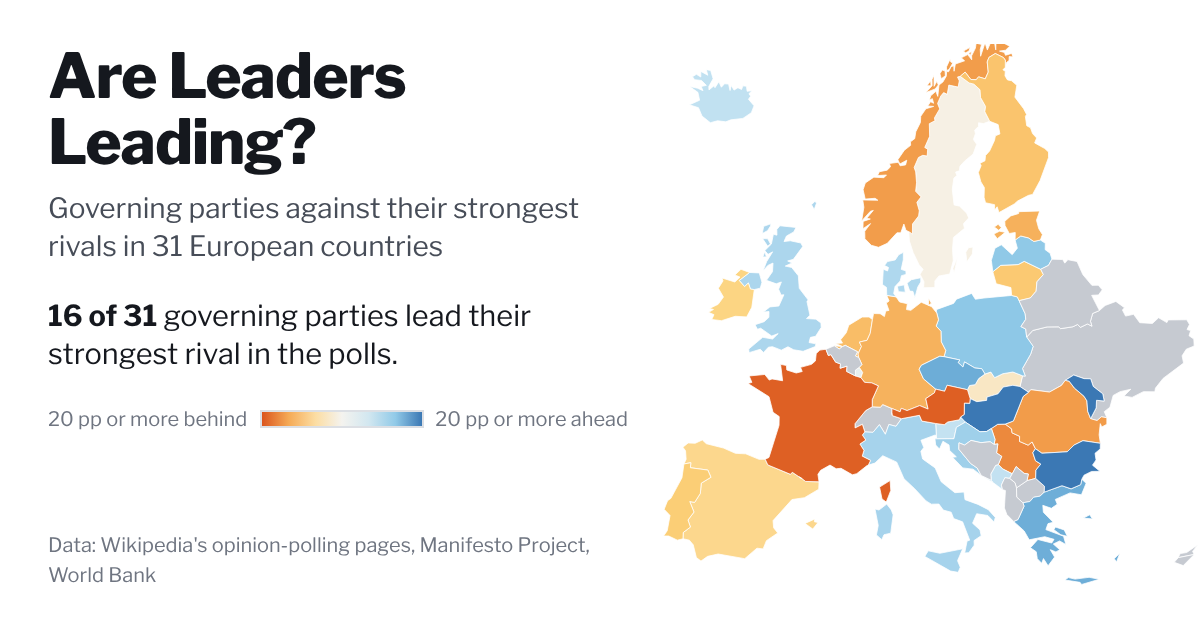
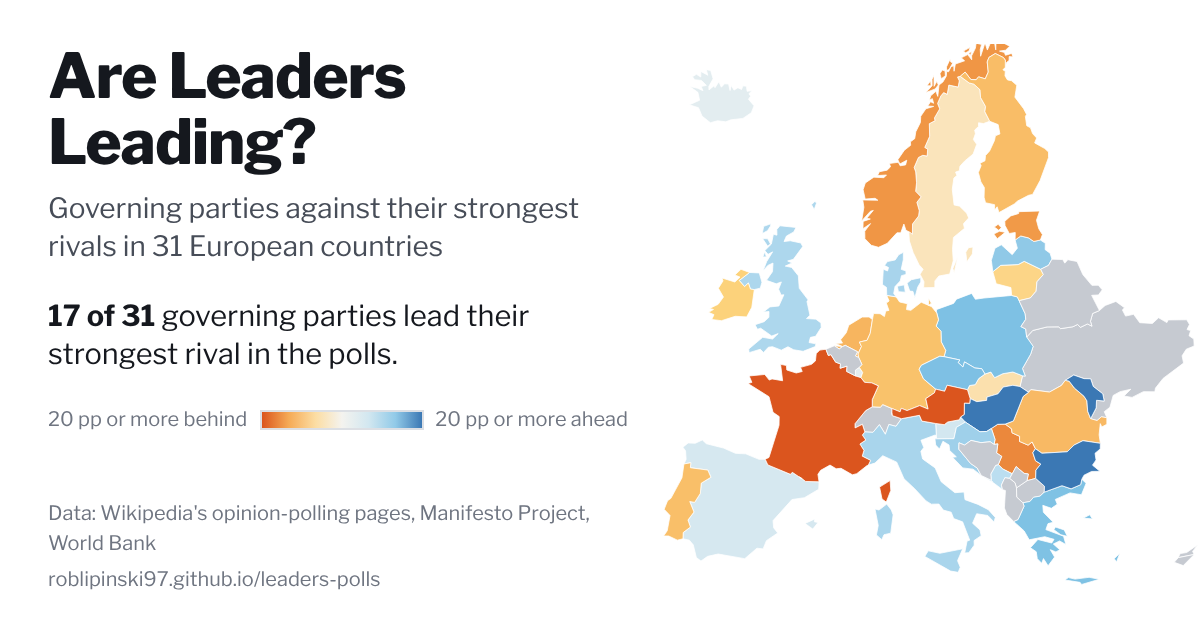
Adding 'numbers shown' (latest vs average)

diff --git a/site/assets/app.js b/site/assets/app.js
@@ -45,10 +45,16 @@
     // "don't know" answers: "include" (as printed on Wikipedia, the default, from the copy of the
     // data in data/with-dk/) or "exclude" (shares of decided voters, from data/)
     dk: store.get("dk", "include") === "exclude" ? "exclude" : "include",
+    // the numbers shown: "latest" (the latest poll, the default) or "avg" (the plain average of the
+    // polls whose fieldwork ended in the last aggDays days up to the latest one, 0 to 30)
+    agg: store.get("agg", "latest") === "avg" ? "avg" : "latest",
+    aggDays: Math.max(0, Math.min(30, Math.round(+store.get("aggDays", 14)) || 0)),
     // polling errors: country, election (ISO date; null = the latest), days before it, options
     pe: { code: "AT", date: null, days: clamp(Math.round(+store.get("peDays14", 14)) || 14, 1, 365), ci: false, term: false, off: new Set() },
   };
 
+  /** The averaging window in days, or null for the latest poll alone. */
+  const aggWin = () => (state.agg === "avg" ? state.aggDays : null);
   /** Where the poll data is read from, by the "don't know" choice (the map's outline is shared). */
   const dataDir = () => (state.dk === "include" ? "data/with-dk/" : "data/");
 
@@ -205,26 +211,30 @@
     c.pollNames = c.polls.p ? c.polls.p.map((i) => cleanPollster((c.pollsters || [])[i])) : null;
     // the figures shown come from the latest poll (see latestOf), except right after an election,
     // where they are the result
-    c.latest = c.completed ? null : latestOf(c.polls.v, c.pollEnds, c.pollStarts, c.pollNames);
+    c.latest = c.completed ? null : latestOf(c.polls.v, c.pollEnds, c.pollStarts, c.pollNames, aggWin());
     return derive(c, false);
   }
 
-  /** The latest poll: the one whose fieldwork ended last. When several ended on the same day,
-   *  their plain average, party by party (no weighting by sample size). Today's figures (shares,
-   *  lead or lag, change since the election) come from it, so they can be checked against the
-   *  Wikipedia table; the lines stay the trend through all the polls.
-   *  v: {party: [value per poll]}, ends / starts: Date per poll, names: pollster per poll. */
-  function latestOf(v, ends, starts, names) {
+  /** The figures shown: by default the latest poll, the one whose fieldwork ended last (several
+   *  ending the same day averaged); with a window of `win` days (the menu in the left column), the
+   *  plain average of every poll whose fieldwork ended in the `win` days up to the latest one. Both
+   *  are plain averages, party by party, without weighting by sample size, so they can be checked
+   *  against the Wikipedia table; the lines stay the trend through all the polls.
+   *  v: {party: [value per poll]}, ends / starts: Date per poll, names: pollster per poll,
+   *  win: days or null, floor: no poll ending on or before this date (the last election) counts. */
+  function latestOf(v, ends, starts, names, win = null, floor = null) {
     if (!ends || !ends.length) return null;
     const last = d3.max(ends, (d) => +d);
-    const idx = []; ends.forEach((d, i) => { if (+d === last) idx.push(i); });
+    let lo = win == null ? last : last - win * DAY;
+    if (floor && win != null) lo = Math.max(lo, +floor + 1);
+    const idx = []; ends.forEach((d, i) => { if (+d >= lo && +d <= last) idx.push(i); });
     const vals = new Map();
     for (const [k, arr] of Object.entries(v || {})) {
       const xs = idx.map((i) => (arr || [])[i]).filter((x) => x != null);
       if (xs.length) vals.set(k, d3.mean(xs));
     }
     const first = starts ? d3.min(idx, (i) => +starts[i]) : last;
-    return { end: new Date(last), start: new Date(first), idx, vals,
+    return { end: new Date(last), start: new Date(first), firstEnd: new Date(d3.min(idx, (i) => +ends[i])), idx, vals, win,
       pollsters: names ? [...new Set(idx.map((i) => names[i]).filter(Boolean))] : [] };
   }
   /** "2–4 Nov 2026", "28 Sep–2 Oct 2026", "4 Nov 2026": fieldwork dates as Wikipedia writes them. */
@@ -238,6 +248,8 @@
   /** One line saying which poll today's figures come from. */
   function latestText(c) {
     const L = c.latest; if (!L) return "";
+    if (L.win != null && L.idx.length > 1)
+      return `Average of ${L.idx.length} polls ending ${fieldworkText(L.firstEnd, L.end)} (the last ${L.win} days up to the latest poll).`;
     const who = L.pollsters.length ? L.pollsters.join(" and ") + ", " : "";
     return `Latest poll: ${who}${fieldworkText(L.start, L.end)}${L.idx.length > 1 ? ", averaged" : ""}.`;
   }
@@ -335,7 +347,7 @@
       pollDates: col(c.pollDates), pollEnds: col(c.pollEnds), pollStarts: col(c.pollStarts), pollNames: col(c.pollNames), n_polls: keep.length,
       periods: c.periods.filter((pp) => pp.fromD <= D),
     };
-    o.latest = latestOf(pv, o.pollEnds, o.pollStarts, o.pollNames);
+    o.latest = latestOf(pv, o.pollEnds, o.pollStarts, o.pollNames, aggWin());
     o.lastData = keep.length ? o.pollDates[o.pollDates.length - 1] : c.start;
     const per = o.periods[o.periods.length - 1];
     o.incumbent = per ? { ...per } : null;
@@ -385,7 +397,7 @@
     };
     o.lastData = o.pollDates.length ? o.pollDates[o.pollDates.length - 1] : o.start;
     o.pollEnds = keep.map((i) => h.pollEnds[i]);
-    o.latest = latestOf(pv, o.pollEnds, null, h.polls.p ? keep.map((i) => cleanPollster((h.pollsterNames || [])[h.polls.p[i]])) : null);
+    o.latest = latestOf(pv, o.pollEnds, null, h.polls.p ? keep.map((i) => cleanPollster((h.pollsterNames || [])[h.polls.p[i]])) : null, aggWin());
     const per = periods[periods.length - 1];
     o.incumbent = per ? { leader: per.leader, title: per.title, key: per.key, caretaker: per.caretaker } : null;
     return derive(o, true);
@@ -1669,6 +1681,8 @@
                 tc.srcAt[i] = k;
               }
               tc.srcR = new Set(tc.src.r); tc.srcM = new Set(tc.src.m);
+              // how many polls each source stands for (several on one day): for plain poll averages
+              tc.srcN = new Map((tc.src.m || []).map((k, j) => [k, (tc.src.c || [])[j] || 2]));
             }
           }
           state.timeline = tl; return tl;
@@ -1681,16 +1695,34 @@
    *  weekly trend). Nothing outside the stretches of steady polling. */
   function tlValue(tc, li, i) {
     if (tc.runs && !tc.runs.some(([a, b]) => i >= a && i <= b)) return null;
-    if (tc.src) { const k = tc.srcAt[i]; return k < 0 ? null : srcVal(tc, li, k); }
+    if (tc.src) {
+      const k = tc.srcAt[i]; if (k < 0) return null;
+      const ks = srcWindow(tc, k);
+      if (ks.length === 1) return srcVal(tc, li, k);
+      let sum = 0, n = 0;
+      for (const j of ks) { const v = srcVal(tc, li, j); if (v != null) { const w = tc.srcN.get(j) || 1; sum += v * w; n += w; } }
+      return n ? sum / n : null;
+    }
     const pk = tc.v && tc.v[li]; if (!pk) return null; const j = i - pk[0]; return j >= 0 && j < pk[1].length ? pk[1][j] : null;
   }
   /** Line li's figure in source k of the timeline (each line's values are stored from its first source). */
   function srcVal(tc, li, k) { const sp = tc.src.v[li]; if (!sp) return null; const j = k - sp[0]; return j >= 0 && j < sp[1].length ? sp[1][j] ?? null : null; }
-  /** Where week i's figures come from: { date, result (an election), several (polls averaged) }. */
+  /** The sources averaged for a date whose latest source is k: k alone, or with a window, every poll
+   *  day in the window up to k (never back across an election result, which stands alone). */
+  function srcWindow(tc, k) {
+    const win = aggWin();
+    if (win == null || tc.srcR.has(k)) return [k];
+    const out = [k];
+    for (let j = k - 1; j >= 0 && tc.src.d[j] >= tc.src.d[k] - win && !tc.srcR.has(j); j--) out.push(j);
+    return out;
+  }
+  /** Where week i's figures come from: { date, from, n (polls), result (an election), several }. */
   function tlSource(tc, i) {
     if (!tc.src || (tc.runs && !tc.runs.some(([a, b]) => i >= a && i <= b))) return null;
     const k = tc.srcAt[i]; if (k < 0) return null;
-    return { date: addDays(state.timeline.startD, tc.src.d[k]), result: tc.srcR.has(k), several: tc.srcM.has(k) };
+    const ks = srcWindow(tc, k), n = d3.sum(ks, (j) => tc.srcN.get(j) || 1);
+    return { date: addDays(state.timeline.startD, tc.src.d[k]), from: addDays(state.timeline.startD, tc.src.d[ks[ks.length - 1]]),
+      n, result: tc.srcR.has(k), several: n > 1, avg: aggWin() != null && ks.length > 1 };
   }
   /** The manifesto in force for a timeline line in week i (before its first coded manifesto: that one). */
   function tlMp(L, i) { if (!L.mpObj || !L.mpObj.length) return null; let r = L.mpObj[0][1]; for (const [k, v] of L.mpObj) { if (k <= i) r = v; else break; } return r; }
@@ -1782,8 +1814,9 @@
     const c = d.c;
     const head = el("div", "tt-head", c.name + (state.mapAt == null ? "" : `, ${fmtDate(d.when)}`));
     // on a date chosen on the slider: the date of the poll (or election) the figures come from
-    if (state.mapAt != null && d.source) head.append(el("span", "tt-when",
-      `(${d.source.result ? "election" : d.source.several ? "latest polls" : "latest poll"}: ${fmtDate(d.source.date)})`));
+    if (state.mapAt != null && d.source) head.append(el("span", "tt-when", d.source.result ? `(election: ${fmtDate(d.source.date)})`
+      : d.source.avg ? `(average of ${d.source.n} polls: ${fieldworkText(d.source.from, d.source.date)})`
+      : `(${d.source.several ? "latest polls" : "latest poll"}: ${fmtDate(d.source.date)})`));
     t.append(head);
     if (!d.hasData) { t.append(el("div", "tt-sub", "No polls on Wikipedia for this week.")); return; }
     if (d.leader) t.append(el("div", "tt-sub", `Head of government: ${d.leader}`));
@@ -2143,7 +2176,7 @@
       const sp = el("span"), i = el("i"); i.style.background = `var(--${w})`;
       sp.append(i, document.createTextNode(t)); keys.append(sp);
     });
-    host.replaceChildren(svg, keys, el("p", "howto-foot", "Lines are trends through the polls; the figures at their ends, ringed, are the latest poll's (polls ending the same day averaged). Hover over a chart for every party on that date."));
+    host.replaceChildren(svg, keys, el("p", "howto-foot", "Lines are trends through the polls; the figures at their ends, ringed, are the latest poll's, or the average chosen in the left column. Hover over a chart for every party on that date."));
   }
 
   // ---- the controls above the map: what it shows, the ideology group picker, the time slider
@@ -2497,7 +2530,8 @@
     h.minorIds = new Set(h.auto ? h.lineages.filter((L) => L.max < 4).map((L) => L.id) : []);
     h.pollsterNames = h.pollsters || [];
     // the latest poll (as for the country graphs), before steady polling trims the list
-    h.latest = latestOf(h.polls.v, h.pollEnds, null, null);
+    h.latest = latestOf(h.polls.v, h.pollEnds, null, null, aggWin(),
+      h.segments && h.segments.length ? h.segments[h.segments.length - 1].startD : null);   // not across the last election
     applySteadyPolling(h);
     cache[code] = h;
     return h;
@@ -2522,7 +2556,7 @@
       const gapNote = !POLL_RULE || !h.dropped ? "" : h.empty
         ? `Wikipedia's ${d3.format(",")(h.dropped)} polls for ${h.name} are more than three months apart throughout, too sparse for a continuous line; the Polling errors view still shows those before each election.`
         : `Stretches where polls are more than three months apart are left out (${d3.format(",")(h.dropped)} polls), because a line cannot follow them.`;
-      $("#lr-deck").textContent = h.empty ? gapNote : `Every national voting-intention poll on English Wikipedia across ${h.segments.length} parliamentary terms, ${d3.format(",")(nPolls)} polls in all, joined into continuous lines; the figures at their ends, ringed, are the latest poll's (polls ending the same day averaged). `
+      $("#lr-deck").textContent = h.empty ? gapNote : `Every national voting-intention poll on English Wikipedia across ${h.segments.length} parliamentary terms, ${d3.format(",")(nPolls)} polls in all, joined into continuous lines; the figures at their ends, ringed, are the latest poll's, or the average chosen in the left column. `
         + (h.auto ? "Where a party was renamed or continued by a successor, its line carries on. " : "Party lineages follow renames, mergers and joint lists (PO to KO, SLD to Lewica, KNP to Konfederacja). ")
         + (h.govts.length ? "The band above the chart shows the head of government's party, and that party's line is drawn thicker while it governs. " : "") + gapNote;
       // period presets: whole span + each term
@@ -3030,6 +3064,33 @@
       ...(hp ? [", and ", ["b", d3.format(",")(hp)], " in the historical data back to the 1990s"] : []), "."]);
   }
 
+  /** The numbers-shown menu: the latest poll, or an average over the last 0 to 30 days (a slider
+   *  that appears with "Average"); kept in this browser. Every view's figures follow it. */
+  function initAgg(refresh) {
+    const btns = [...document.querySelectorAll("#agg-seg .seg-b")], days = $("#agg-n"), out = $("#agg-n-out");
+    const label = () => { const n = state.aggDays; out.textContent = n === 0 ? "the latest day only" : n === 1 ? "the last day" : `the last ${n} days`; };
+    const sync = () => {
+      btns.forEach((b) => b.setAttribute("aria-checked", String(b.dataset.agg === state.agg)));
+      $("#agg-days").hidden = state.agg !== "avg";
+      days.value = state.aggDays; label();
+    };
+    const apply = async () => {
+      document.body.classList.add("is-loading");
+      try {
+        await loadData();
+        if (state.mapAt != null) await loadTimeline();
+        refresh();
+      } finally { document.body.classList.remove("is-loading"); }
+    };
+    sync();
+    btns.forEach((b) => b.addEventListener("click", () => {
+      if (b.dataset.agg === state.agg) return;
+      state.agg = b.dataset.agg; store.set("agg", state.agg); sync(); apply();
+    }));
+    days.addEventListener("input", () => { state.aggDays = +days.value; label(); });
+    days.addEventListener("change", () => { state.aggDays = +days.value; store.set("aggDays", state.aggDays); apply(); });
+  }
+
   /** The "don't know" menu: two buttons; the choice is kept in this browser. Older builds of the
    *  data have no copy with the answers kept, and then the menu says so and stays on "Exclude". */
   function initDK(refresh) {
@@ -3098,7 +3159,7 @@
       ideoSyncs.forEach((f) => f());
     };
     window.matchMedia("(prefers-color-scheme: dark)").addEventListener("change", rerender);
-    initDK(() => {
+    const refreshViews = () => {
       renderSummary();
       if (state.view === "map") renderMap();
       if (state.view === "correlates") renderScatter();
@@ -3106,7 +3167,9 @@
       if (state.view === "timelines") { $("#lr-ranges").dataset.code = ""; state.lr.domain = null; renderLongRun(); }
       if (state.view === "errors") renderErrors();
       ideoSyncs.forEach((f) => f());
-    });
+    };
+    initDK(refreshViews);
+    initAgg(refreshViews);
     new MutationObserver(rerender).observe(document.documentElement, { attributes: true, attributeFilter: ["data-theme"] });
     let rt, lastW = window.innerWidth, lastH = window.innerHeight;
     window.addEventListener("resize", () => {

diff --git a/site/index.html b/site/index.html
@@ -47,6 +47,24 @@
     <button class="tab" role="tab" id="tab-errors" aria-controls="view-errors" aria-selected="false" data-view="errors"><svg class="ti" viewBox="0 0 20 20" aria-hidden="true"><path d="M2.5 5h15M2.5 10h15M2.5 15h15" opacity=".4"/><rect x="11.2" y="3" width="4" height="4" class="dot"/><rect x="5.6" y="8" width="4" height="4" class="dot"/><rect x="8.8" y="13" width="4" height="4" class="dot"/></svg><span>Polling errors</span></button>
     <button class="tab" role="tab" id="tab-method" aria-controls="view-method" aria-selected="false" data-view="method"><svg class="ti" viewBox="0 0 20 20" aria-hidden="true"><rect x="2.5" y="3.5" width="15" height="13"/><path d="M2.5 7.8h15M2.5 12.1h15M7.6 3.5v13"/></svg><span>About and method</span></button>
   </nav>
+  <div class="palette-switch data-switch" role="group" aria-label="Which figures are shown">
+    <span class="pick-head" id="dk-head">"Don't know" answers</span>
+    <div class="seg seg-sm dk-seg" id="dk-seg" role="radiogroup" aria-labelledby="dk-head">
+      <button type="button" class="seg-b" role="radio" data-dk="include" aria-checked="false">Include</button>
+      <button type="button" class="seg-b" role="radio" data-dk="exclude" aria-checked="true">Exclude</button>
+    </div>
+    <p class="pick-note" id="dk-note">(Include: shares of all respondents, as seen on Wikipedia. Exclude: shares of decided voters only, as pollsters often report them.)</p>
+    <span class="pick-head" id="agg-head">Numbers shown</span>
+    <div class="seg seg-sm dk-seg" id="agg-seg" role="radiogroup" aria-labelledby="agg-head">
+      <button type="button" class="seg-b" role="radio" data-agg="latest" aria-checked="true">Latest poll</button>
+      <button type="button" class="seg-b" role="radio" data-agg="avg" aria-checked="false">Average</button>
+    </div>
+    <div class="agg-days" id="agg-days" hidden>
+      <label for="agg-n">Polls ending in <span id="agg-n-out">the last 14 days</span></label>
+      <input type="range" id="agg-n" class="time-slider" min="0" max="30" step="1" value="14" aria-describedby="agg-note">
+    </div>
+    <p class="pick-note" id="agg-note">(Latest poll: the top row of the Wikipedia table, polls ending the same day averaged. Average: the plain average of the polls ending in the chosen number of days up to the latest one.)</p>
+  </div>
   <div class="summary box" id="summary">
     <p class="s-when" id="s-when" hidden></p>
     <p class="s-row" id="s-row-lead"><span class="s-ico" id="s-ico-lead" aria-hidden="true"></span><span class="s-text" id="s-trailing"></span></p>
@@ -54,13 +72,7 @@
     <div class="s-list ahead"><h2 class="s-head"><span class="s-hico" id="s-ico-ahead" aria-hidden="true"></span>Furthest ahead</h2><ul id="s-ahead"></ul></div>
     <div class="s-list behind"><h2 class="s-head"><span class="s-hico" id="s-ico-behind" aria-hidden="true"></span>Furthest behind</h2><ul id="s-behind"></ul></div>
   </div>
-  <div class="palette-switch" role="group" aria-label="Data, colours and theme">
-    <span class="pick-head" id="dk-head">"Don't know" answers</span>
-    <div class="seg seg-sm dk-seg" id="dk-seg" role="radiogroup" aria-labelledby="dk-head">
-      <button type="button" class="seg-b" role="radio" data-dk="include" aria-checked="false">Include</button>
-      <button type="button" class="seg-b" role="radio" data-dk="exclude" aria-checked="true">Exclude</button>
-    </div>
-    <p class="pick-note" id="dk-note">(Include: shares of all respondents, as seen on Wikipedia. Exclude: shares of decided voters only, as pollsters often report them.)</p>
+  <div class="palette-switch" role="group" aria-label="Colours and theme">
     <span class="pick-head" id="pick-head">Colours</span>
     <span class="pick" id="pick-leadlag"><select id="palette" aria-label="Colours for a lead or lag"></select></span>
     <span class="pick" id="pick-share"><select id="hue" aria-label="Colours for a share of the vote"></select></span>
@@ -288,7 +300,7 @@
       <p>The polling window then closes at the election and the result becomes the final point. Until the next page has five polls, the country shows the completed term, with the result in place of the trend (Serbia after its 25 October 2026 election, for example). The outgoing government counts as caretaker until a new one is entered.</p>
       <h3>Trend lines</h3>
       <p>Lines are a local linear regression (a LOESS-type smoother) through the individual polls. Each poll is weighted by the square root of its sample size and by a Gaussian kernel in time. The bandwidth widens where polls are sparse: about three weeks in Germany, several months in Luxembourg. Where polls are far apart the line holds its level instead of extending a slope, and it never leaves the range of the polls around it. Where a pollster counts "don't know" answers inside its 100%, they are kept by default, so the figures are as printed on Wikipedia; the lines then follow the polls alone, without the election result, and shares and changes since the election read lower wherever pollsters count undecided respondents. The menu on the left can leave them out instead: the other shares are then re-based to decided voters, as an election counts valid votes only, and each line starts at the result. The polling errors always leave them out. Polled joint lists (for example Third Way in Poland) are joined to their continuing party.</p>
-      <p>The figures are the latest poll's: the governing party's share, its lead or lag on the strongest party in that poll, the change since the election and the shares on the map, so they can be checked against the Wikipedia table. The latest poll is the one whose fieldwork ended last, on or before the date shown (today, or the date chosen on a time slider); when several ended on the same day, their plain average, party by party, without weighting by sample size. Between an election and the first poll after it, the map shows the result. The latest poll's figures are ringed at the end of the lines; the lines themselves, and the share of the term spent ahead, are the trend through all the polls.</p>
+      <p>The figures are by default the latest poll's: the governing party's share, its lead or lag on the strongest party in that poll, the change since the election and the shares on the map, so they can be checked against the Wikipedia table. The latest poll is the one whose fieldwork ended last, on or before the date shown (today, or the date chosen on a time slider); when several ended on the same day, their plain average, party by party, without weighting by sample size. As a single poll can differ from the others, the menu on the left can show instead the plain average of all the polls ending in the last 0 to 30 days up to the latest one (never reaching back across an election); every view follows the choice. Between an election and the first poll after it, the map shows the result. The latest poll's figures are ringed at the end of the lines; the lines themselves, and the share of the term spent ahead, are the trend through all the polls.</p>
       <h3>Historical data</h3>
       <p>The historical data chain every polling page back to the 1990s where Wikipedia has one, and the "Opinion polls" section of election articles where it does not. Parties keep one line through renames and direct successors (PO to KO, the Brexit Party to Reform UK, SYRIZA's predecessor Synaspismos); the list of these joins is kept by hand. Pages that report seat projections instead of vote shares are converted to shares of seats for the Netherlands and left out elsewhere; pages whose numbers do not add up to vote shares are left out too. The band above the chart shows the head of government's party: from <a href="https://www.parlgov.org/" target="_blank" rel="noopener">ParlGov</a> (Döring, Huber and Manow) up to 2020, then from Wikipedia's lists of heads of government.</p>
       <h3>Steady polling only</h3>

diff --git a/site/assets/style.css b/site/assets/style.css
@@ -324,6 +324,13 @@ svg.seq .country.tracked { stroke: var(--axis); }   /* white (0%) land needs an 
 .palette-switch .dk-seg .seg-b { justify-content: center; font-size: var(--fs-xs); }
 .palette-switch .pick-note { grid-column: 1 / -1; margin: 0 0 var(--sp-2); font-size: var(--fs-xs); line-height: var(--lh-snug); color: var(--muted); }
 body.is-loading main { opacity: 0.55; transition: opacity 0.2s; }
+/* the menus for which figures are shown, between the list of views and the summary */
+.data-switch { border-top: 0; padding-top: 0; }
+.data-switch #agg-head { margin-top: var(--sp-1); }
+.data-switch .agg-days { grid-column: 1 / -1; display: grid; gap: 2px; margin-top: var(--sp-1); }
+.data-switch .agg-days[hidden] { display: none; }
+.data-switch .agg-days label { margin: 0; color: var(--ink-2); }
+.data-switch .agg-days .time-slider { width: 100%; margin: 0; }
 
 /* ------------------------------------------------------------------ correlates */
 .quadrant-box { padding: 0; }
@@ -550,7 +557,8 @@ td.up { color: var(--lead-ink); } td.down { color: var(--trail-ink); }
   .summary .s-list { margin: 0; padding: var(--sp-2) var(--sp-3); border: 1px solid var(--axis); }
   .summary .s-list + .s-list, .summary .s-list:last-child { margin-top: 0; margin-bottom: 0; }
   main { order: 3; }
-  .palette-switch { order: 4; grid-template-columns: 40px minmax(0, 280px); }
+  .palette-switch { order: 5; grid-template-columns: 40px minmax(0, 280px); }
+  .data-switch { order: 4; border-top: 1px solid var(--rule); padding-top: var(--sp-3); }
   .masthead { border-bottom: 0; }
 }
 /* the how-to key drops below the options when there is no room beside them */

diff --git a/tools/make_social.js b/tools/make_social.js
@@ -160,7 +160,7 @@ async function loadTimeline(page) {
 }
 
 const MONTHS = ["January", "February", "March", "April", "May", "June", "July", "August", "September", "October", "November", "December"];
-const SOURCE = "Poll trends from Wikipedia's opinion-polling pages. Dark grey: not covered; light grey: no polls that week.";
+const SOURCE = "Latest polls on Wikipedia's opinion-polling pages, \"don't know\" included. Dark grey: not covered; light grey: too few polls at the time.";
 const MODES = {
   gov: { file: "leadlag", sub: "How far the head of government's party leads (+) or trails (−) its strongest rival in the polls, in percentage points" },
   ideo: { file: "radical-right", title: "The radical right in the polls", sub: "Combined poll share of the parties in the Manifesto Project's nationalist and radical right family, in per cent", source: "Polls: Wikipedia's opinion-polling pages. Party families: Manifesto Project (MPDS 2026a). Dark grey: not covered; light grey: no polls.",

diff --git a/tools/build_artifact.py b/tools/build_artifact.py
@@ -1,9 +1,9 @@
 """Package the site as one self-contained HTML page (CSS + JS inlined) plus its data files.
 
     python tools/build_artifact.py --full     -> dist/standalone/index.html (+ data/), a normal web page
-    python tools/build_artifact.py            -> dist/artifact-v20/index.html: body content only, for
+    python tools/build_artifact.py            -> dist/artifact-v21/index.html: body content only, for
                                                  hosts that wrap the page themselves (Claude artifacts)
-(dist/artifact/ and dist/artifact-v2/ to -v19/ hold the published versions 1 to 19 and are left alone.)
+(dist/artifact/ and dist/artifact-v2/ to -v20/ hold the published versions 1 to 20 and are left alone.)
 
 Useful for hosts that want a single page, e.g. sharing as a Claude artifact.
 GitHub Pages does NOT need this: it serves the `site/` folder as it is.
@@ -17,7 +17,7 @@ SITE = ROOT / "site"
 
 
 def main(content_only: bool = True):
-    OUT = ROOT / "dist" / ("artifact-v20" if content_only else "standalone")
+    OUT = ROOT / "dist" / ("artifact-v21" if content_only else "standalone")
     html = (SITE / "index.html").read_text(encoding="utf-8")
     css = (SITE / "assets" / "style.css").read_text(encoding="utf-8")
     js = (SITE / "assets" / "app.js").read_text(encoding="utf-8")

diff --git a/polls/enrich.py b/polls/enrich.py
@@ -40,7 +40,7 @@ def latest_sources(h: dict, ids: list[str], start: dt.date) -> dict:
     Polls are grouped by their last day of fieldwork, several on the same day averaged without
     weights; an election result counts as the latest figures from election day until the next
     poll. Returned column-wise: "d" days since `start`, "r" the indices that are results, "m" those
-    that average several polls, "v" one entry per line (in `ids` order): [first source index, values
+    that average several polls ("c" how many), "v" one entry per line (in `ids` order): [first source index, values
     from there to the line's last source] (most lines exist only for part of the period).
     """
     origin = _d(h["origin"])
@@ -67,6 +67,7 @@ def latest_sources(h: dict, ids: list[str], start: dt.date) -> dict:
     return {"d": [(x[0] - start).days for x in sources],
             "r": [k for k, x in enumerate(sources) if x[1] == 1],
             "m": [k for k, x in enumerate(sources) if x[3] > 1],
+            "c": [x[3] for x in sources if x[3] > 1],   # how many polls each of those averages
             "v": [_span([x[2].get(lid) for x in sources]) for lid in ids]}
 
 

diff --git a/README.md b/README.md
@@ -353,6 +353,10 @@ Malta, Montenegro and Serbia lose their sparsest years.
   or before the chosen date too (the timeline's `src`: polls by their last day of fieldwork, and
   election results), with that poll's date next to the date in the map's tooltip; thin rules
   between the summary's parts; the map's colour bar and time slider 30% thicker.
+* Version 21: a "Numbers shown" menu: the latest poll (the default) or the plain average of the
+  polls ending in the last 0 to 30 days up to the latest one, followed by every view (the
+  timeline's `src.c` counts the polls behind each day's figures, for those averages); the
+  "don't know" and "Numbers shown" menus moved under the list of views.
 
 ## Known limitations
 
